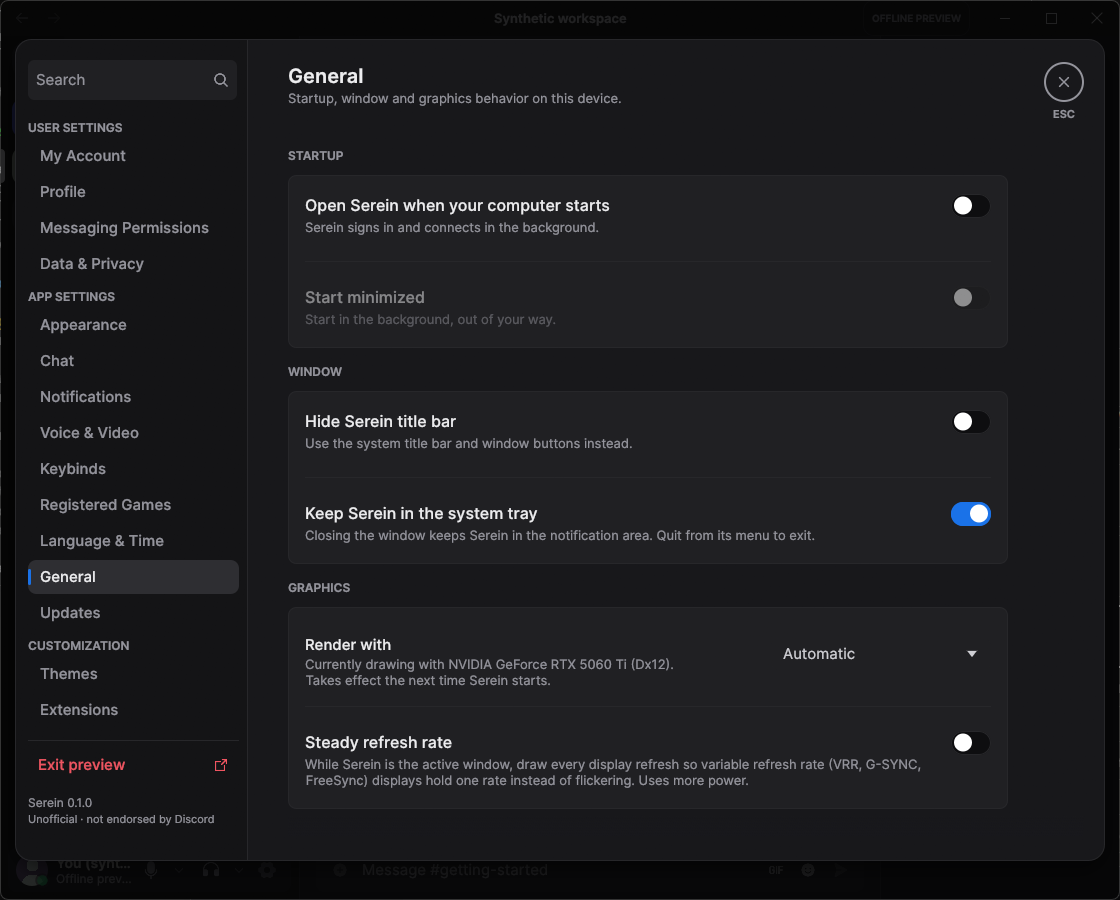
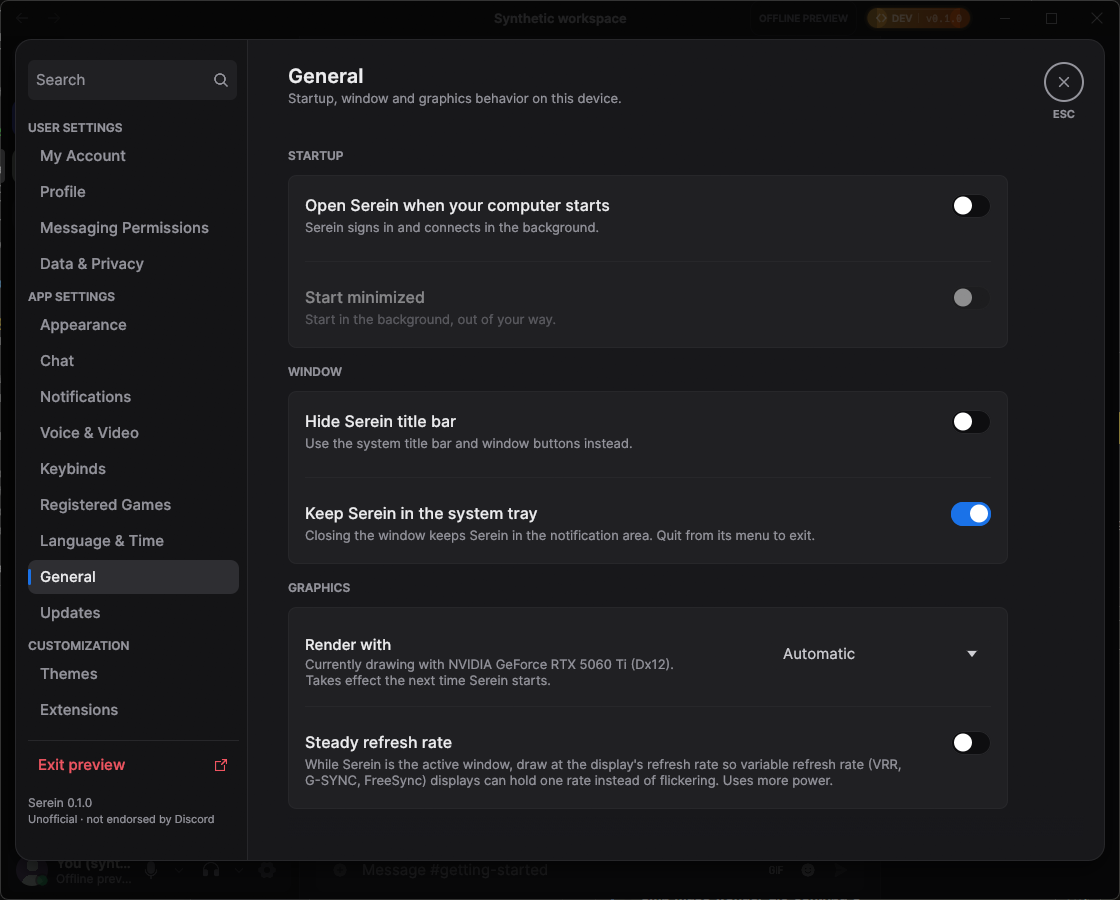
fix(desktop): address steady refresh review findings
Searching for the switch's name now finds General, and a focus change
re-reads the display refresh rate, since display settings change it
without moving the window. The description says VRR displays can hold one
rate rather than promising it, in every locale. The platform notes no
longer claim that covered windows pause the steady rate on Windows and
Wayland, where winit does not report occlusion.

Changed region(s): [[0.2812, 0.84, 0.8125, 0.8711], [0.5625, 0.9956, 0.75, 1.0], [0.75, 0.0, 0.875, 0.0311]]

diff --git a/apps/desktop/src/main.rs b/apps/desktop/src/main.rs
@@ -1018,6 +1018,8 @@ impl SessionEnd {
 		self == Self::Logout
 	}
 }
+/// Window placement, scale, monitor size and focus; any change re-reads the monitor's refresh rate.
+type MonitorKey = (Option<egui::Rect>, Option<f32>, Option<egui::Vec2>, bool);
 struct Desktop {
 	proxy_auth: proxy_auth::Authentication,
 	api_proxy: tokio::sync::watch::Sender<Option<discord_api::proxy::ApiProxy>>,
@@ -1057,7 +1059,7 @@ struct Desktop {
 	cached_history_request: Option<(model::Id, u64)>,
 	/// The saved maximized state still has to be re-applied once the window is shown.
 	maximize_after_show: bool,
-	monitor_geometry: Option<(Option<egui::Rect>, Option<f32>, Option<egui::Vec2>)>,
+	monitor_geometry: Option<MonitorKey>,
 	monitor_period: Option<Duration>,
 	frame_metrics: FrameMetrics,
 	#[cfg(feature = "demo")]
@@ -5584,12 +5586,14 @@ impl eframe::App for Desktop {
 				self.app_settings.state.dirty = true;
 			}
 		}
-		// Monitor size also detects Wayland moves without a global window position.
+		// Monitor size also detects Wayland moves without a global window position. A focus change
+		// re-reads the refresh rate as well: display settings change it without moving the window.
 		if let Some(viewport) = raw_input.viewports.get(&raw_input.viewport_id) {
 			let geometry = (
 				viewport.outer_rect,
 				viewport.native_pixels_per_point,
 				viewport.monitor_size,
+				raw_input.focused,
 			);
 			if self.monitor_geometry != Some(geometry) {
 				self.monitor_geometry = Some(geometry);

diff --git a/crates/ui/src/settings.rs b/crates/ui/src/settings.rs
@@ -133,7 +133,7 @@ impl Page {
 			Self::Account => "my account profile logout",
 			Self::Profile => "profile edit display name about me bio pronouns color colour",
 			Self::General => {
-				"general windows macos linux login menu bar startup autostart automatically open minimized minimize close tray background title bar caption window buttons decorations borderless tiling graphics gpu adapter render discrete integrated hardware acceleration performance battery vrr variable refresh rate g-sync gsync freesync adaptive sync flicker flickering steady frame rate fps vsync"
+				"general windows macos linux login menu bar startup autostart automatically open minimized minimize close tray background title bar caption window buttons decorations borderless tiling graphics gpu adapter render discrete integrated hardware acceleration performance battery vrr variable refresh rate steady refresh rate g-sync gsync freesync adaptive sync flicker flickering steady frame rate fps vsync"
 			}
 			Self::Appearance => {
 				"appearance customization font typography import ttf otf primary accent hex window effects transparency blur theme dark light system mode zoom scale layout sidebar width people members member list reset colour color preset"

diff --git a/docs/platform-support.md b/docs/platform-support.md
@@ -176,13 +176,14 @@ swap chain moves to hardware independent flip while frames arrive quickly, so a 
 rate (VRR, G-SYNC, FreeSync) display can follow that cadence while Serein is the active window.
 Many panels flicker visibly when the rate swings between their limits, OLED panels in particular.
 
-General › Graphics › Steady refresh rate is off by default. When it is on, Serein presents every
-display refresh while its window is focused, not minimized and not occluded, so the display can
-hold one rate. Every refresh runs a full interface pass, which costs CPU time and power in
-proportion to the refresh rate: about a quarter of one core at 3840×2160 and 120 Hz in the
-November 5, 2026 entry of [performance findings](performance.md). Unfocused, minimized and
-hidden windows redraw only on change again. The setting applies immediately and is saved with
-the other device preferences.
+General › Graphics › Steady refresh rate is off by default. When it is on, Serein draws at the
+display's refresh rate while its window is focused and not minimized, so the display can hold one
+rate. A window that macOS or X11 reports as covered pauses it as well; Windows and Wayland do not
+report that, so a focused window under an always-on-top one keeps drawing. Every refresh runs a
+full interface pass, which costs CPU time and power in proportion to the refresh rate: about a
+quarter of one core at 3840×2160 and 120 Hz in the November 5, 2026 entry of
+[performance findings](performance.md). Unfocused, minimized and hidden windows redraw only on
+change again. The setting applies immediately and is saved with the other device preferences.
 
 Excluding `serein.exe` from VRR in the graphics driver, such as NVIDIA's per-program Monitor
 Technology setting, avoids the swings without the extra frames. Present cadence was verified
